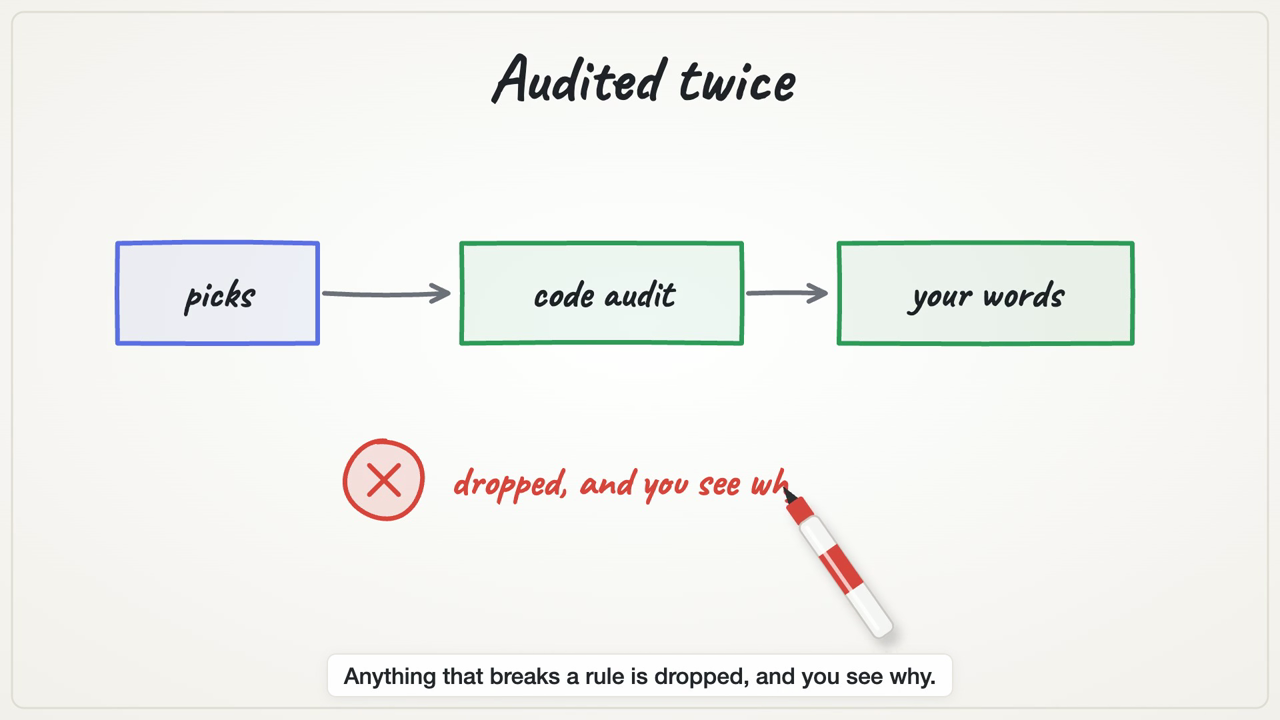
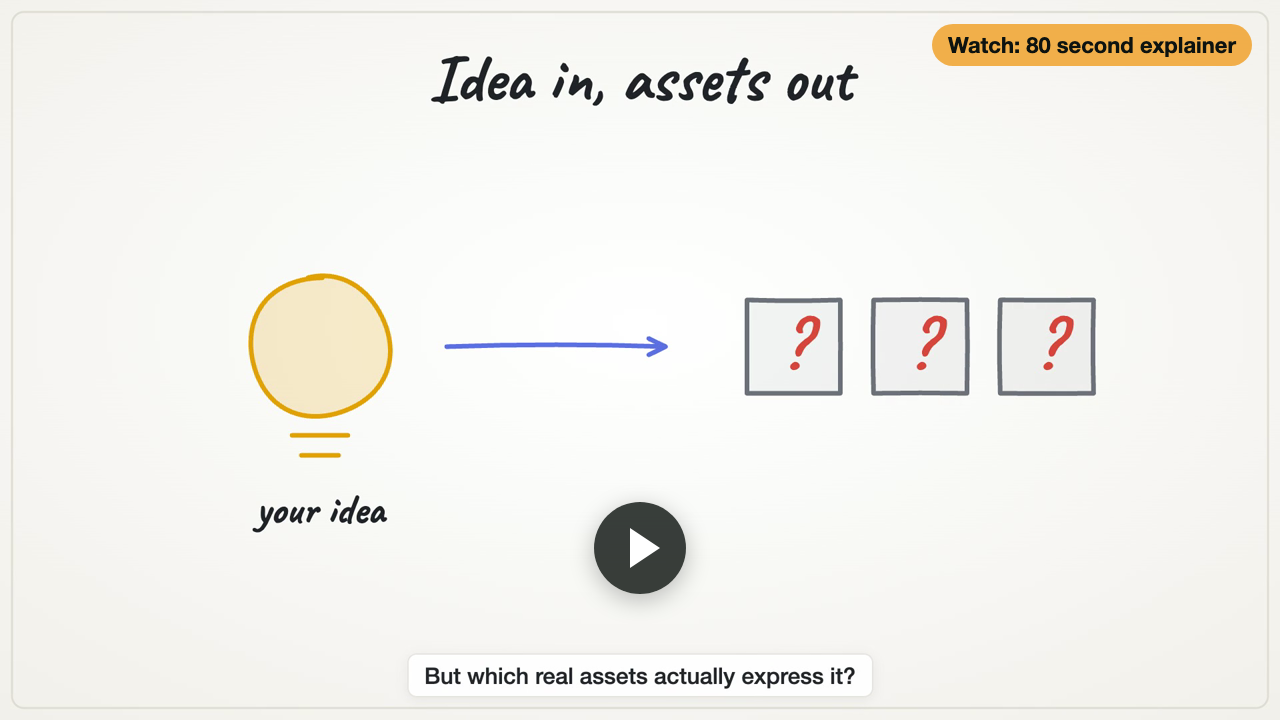
Polish the repository page
- README: license, CI, release and good-first-issue badges; a clean video cover
  with a play button
- the spec is now SPEC.md (it kept a legacy file name)
- CI also runs on pushes to main, so the badge reflects main

diff --git a/README.md b/README.md
@@ -1,10 +1,16 @@
 <h1 align="center">SyntheTick</h1>
 <p align="center"><b>Turn an investment thesis into audited, evidence-backed picks, without invented numbers.</b><br>
 Open source, MIT licensed. Live at <a href="https://synthetick.org">synthetick.org</a>.</p>
+<p align="center">
+  <a href="LICENSE"><img alt="License: MIT" src="https://img.shields.io/github/license/Matteoikarieth96/synthetick-oss"></a>
+  <a href="https://github.com/Matteoikarieth96/synthetick-oss/actions/workflows/ci.yml"><img alt="CI" src="https://github.com/Matteoikarieth96/synthetick-oss/actions/workflows/ci.yml/badge.svg?branch=main"></a>
+  <a href="https://github.com/Matteoikarieth96/synthetick-oss/releases"><img alt="Latest release" src="https://img.shields.io/github/v/release/Matteoikarieth96/synthetick-oss"></a>
+  <a href="https://github.com/Matteoikarieth96/synthetick-oss/issues?q=is%3Aissue+is%3Aopen+label%3A%22good+first+issue%22"><img alt="Good first issues" src="https://img.shields.io/github/issues/Matteoikarieth96/synthetick-oss/good%20first%20issue?label=good%20first%20issues"></a>
+</p>
 
 <p align="center">
   <a href="docs/assets/synthetick-explainer.mp4"><img src="docs/assets/explainer-thumb.png" alt="Watch the 80 second explainer video" width="640"></a><br>
-  <sub>About 80 seconds, silent whiteboard explainer with captions (MP4). Made with AI assistance: script draft and drawings by Claude Code (whiteboard-video skill), reviewed by the maintainer.</sub>
+  <sub>Click to watch: about 80 seconds, silent with captions (MP4). Made with AI assistance: script draft and drawings by Claude Code (whiteboard-video skill), reviewed by the maintainer.</sub>
 </p>
 
 You paste a thesis, an article, a tweet or a PDF. SyntheTick pulls out the idea and the rules you set
@@ -33,7 +39,7 @@ real market data. It is a **research starting point, not investment advice**.
 | `sail-agent/` | Experimental autonomous agent that trades tokenized stocks. **Can move real funds.** Separate from the app, read its README first |
 | `docs/` | [Documentation](docs/DOCUMENTATION.md), [API and MCP](docs/API.md), [quickstart](docs/QUICKSTART.md), test reports |
 
-The single source of truth for behaviour is [signal-desk-v4-spec.md](signal-desk-v4-spec.md). When code and spec disagree, the spec wins; if you change a decision, change the spec first.
+The single source of truth for behaviour is [SPEC.md](SPEC.md). When code and spec disagree, the spec wins; if you change a decision, change the spec first.
 
 ## Run it
 

diff --git a/CONTRIBUTING.md b/CONTRIBUTING.md
@@ -4,7 +4,7 @@ Thanks for helping. This file is the short path from "I want to change something
 
 ## Ground rules
 
-1. **The spec is the source of truth.** [signal-desk-v4-spec.md](signal-desk-v4-spec.md) describes intended behaviour. When code and spec disagree, the spec wins. If your change alters a decision, update the spec in the same pull request, first.
+1. **The spec is the source of truth.** [SPEC.md](SPEC.md) describes intended behaviour. When code and spec disagree, the spec wins. If your change alters a decision, update the spec in the same pull request, first.
 2. **The honesty contract is not negotiable.** Requirements are enforced three times, empty results are honest, missing data is a dash. A change that weakens any of those will not be merged. Tests for them live in `runtime/test-regression.ts`.
 3. **No secrets, no vendor data.** Never commit `.env`, keys, wallet files or payloads from a paid data vendor. A secret scan runs on every push.
 4. **Data sources need a terms check.** A new vendor adapter must say, in the pull request, what its terms allow and confirm that the repository does not redistribute its data.

diff --git a/CLAUDE.md b/CLAUDE.md
@@ -1,3 +1,3 @@
 # CLAUDE.md
 
-This repo implements signal-desk-v4-spec.md — that file is the single source of truth; when code and spec conflict, the spec wins; when we change a decision, update the spec first. Never commit secrets; all keys live in .env (gitignored) locally and in GitHub/Supabase secrets in deployment. Work milestone by milestone (spec §10); each milestone must pass its test gate before moving on.
+This repo implements SPEC.md — that file is the single source of truth; when code and spec conflict, the spec wins; when we change a decision, update the spec first. Never commit secrets; all keys live in .env (gitignored) locally and in GitHub/Supabase secrets in deployment. Work milestone by milestone (spec §10); each milestone must pass its test gate before moving on.

diff --git a/docs/DOCUMENTATION.md b/docs/DOCUMENTATION.md
@@ -1,6 +1,6 @@
 # SyntheTick — Service Documentation
 
-> Version: v4 (M1–M4 complete; M5 hardening shipped except cost telemetry and a stricter CSP, see §8) · Spec: [`signal-desk-v4-spec.md`](../signal-desk-v4-spec.md)
+> Version: v4 (M1–M4 complete; M5 hardening shipped except cost telemetry and a stricter CSP, see §8) · Spec: [`SPEC.md`](../SPEC.md)
 
 SyntheTick turns any investment thesis — pasted text, an article, notes, or a
 PDF — into a researched, audited list of up to 10 real assets, matched against
